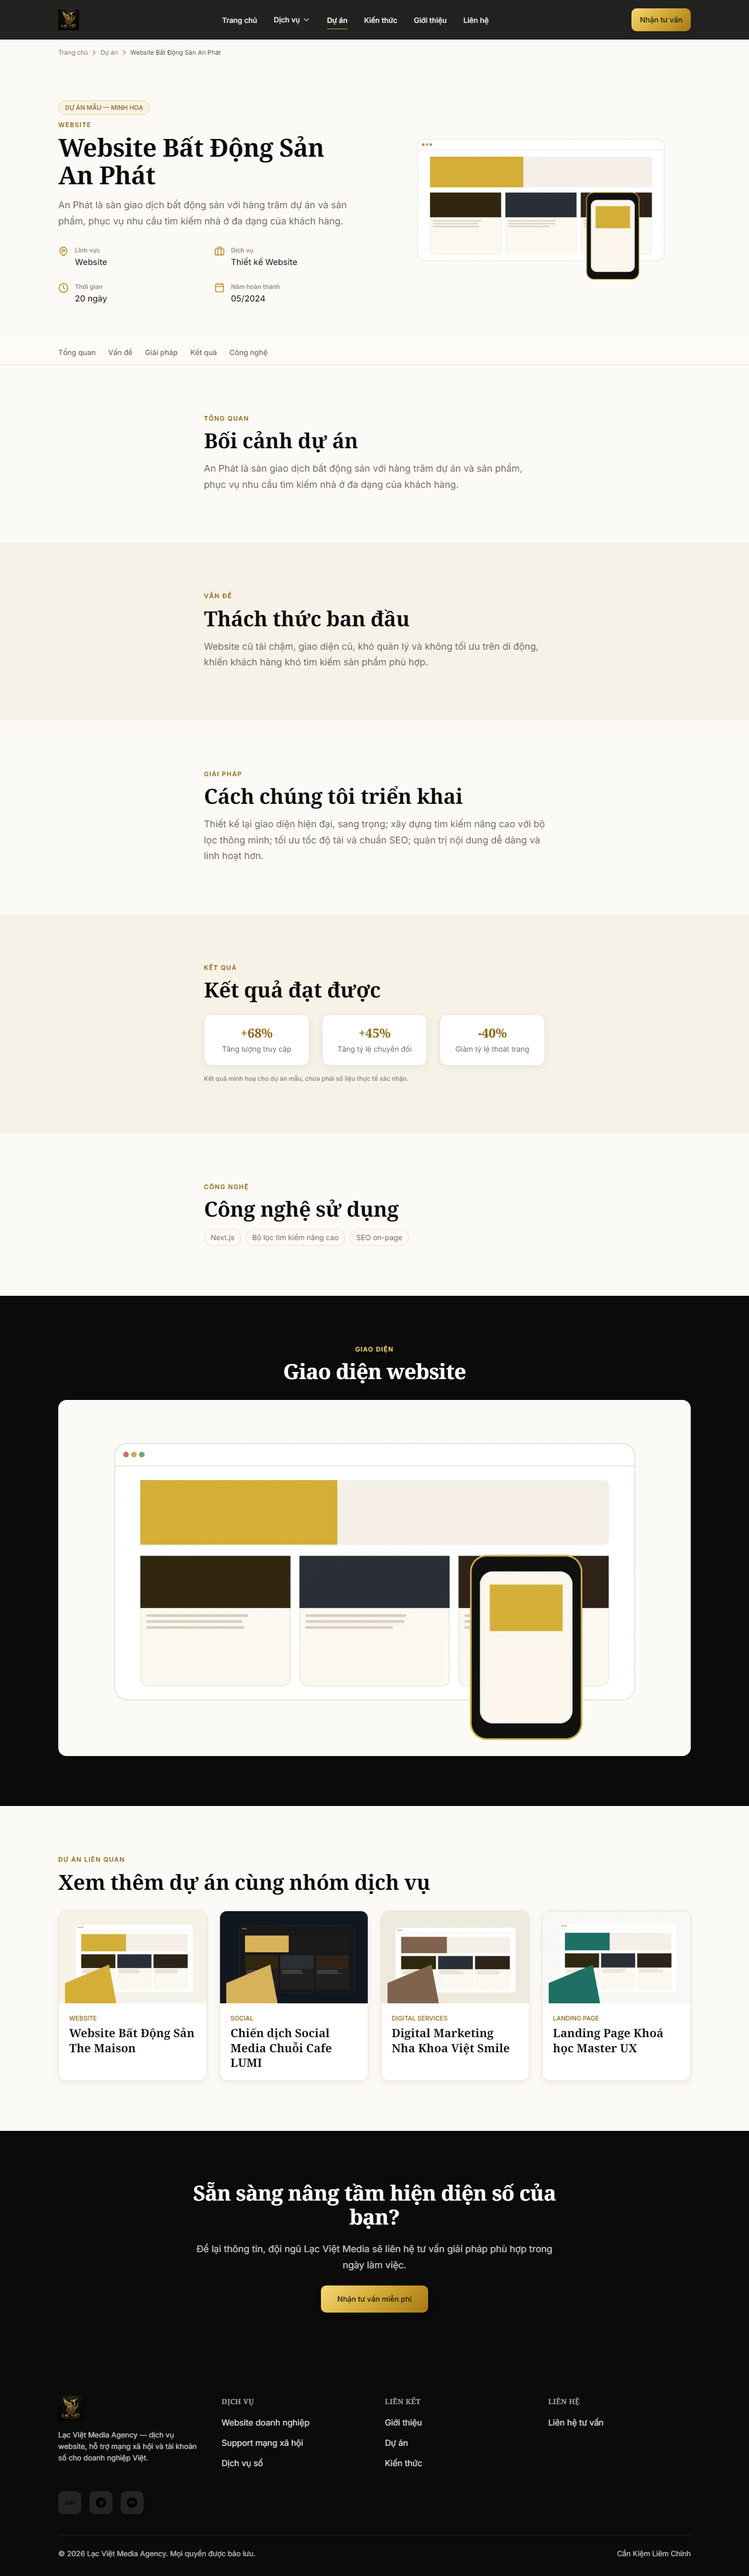
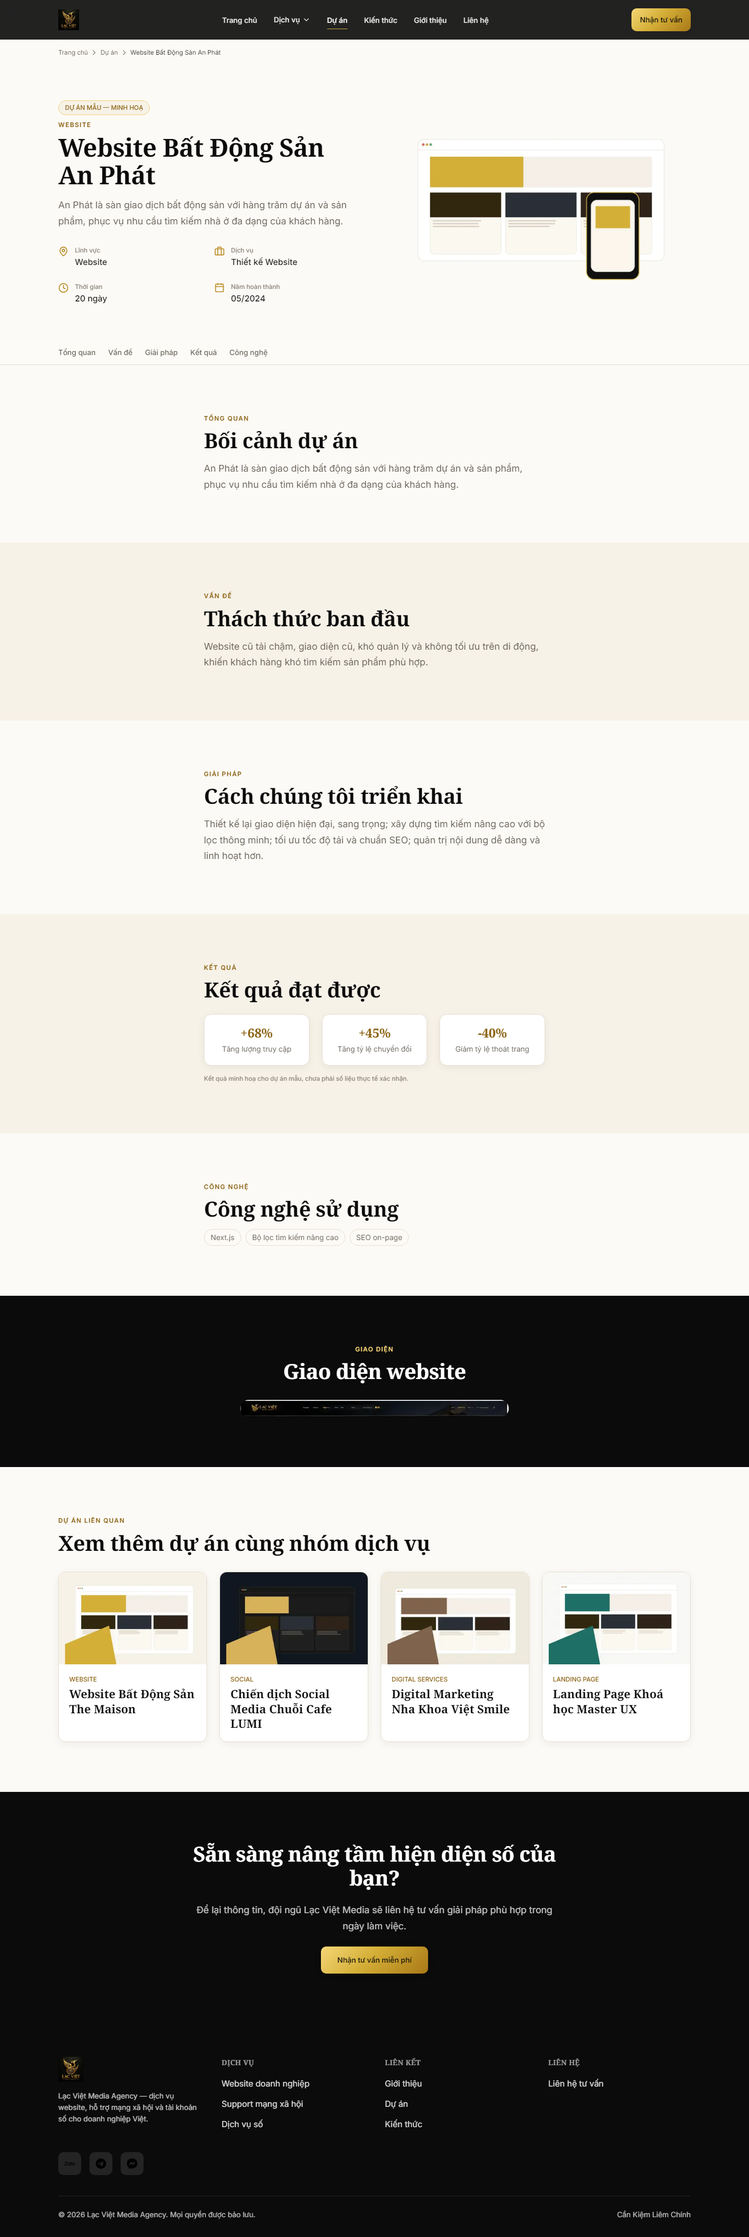
webby(pha2): integrate the three approved-UI raster crops (blocker resolved)
The Drive MCP connector was session-expired, so the three frozen rasters were
initially reported as an external blocker rather than faked. User opened
link-level access; fetched over plain HTTPS instead of the connector, which
for the 29.9MB bundle meant following Google's large-file virus-scan
interstitial (confirm token + uuid). No other Drive file was pulled or browsed.

SHA-256 verified 3/3, twice: against the bytes read from the ZIP before
writing, and again from disk after writing to repoDestination.
  support-cta-device-shield  291d5815...  8214 B  295x120
  digital-cta-phoenix        a4eeb078...  7306 B  205x98
  project-detail-showcase    019b5dc4...  3618 B  516x33

Placements, all at native size with no upscale:
- /support-mxh consultation CTA: device+shield inside the lead-cta card.
- /dich-vu-so final CTA: phoenix above the heading via a new FinalCta
  visualAssetId prop, beside the already-mapped ring motif and noise texture.
- /du-an/[slug] visual-showcase: the approved crop replaces the temporary
  device-master fallback for the demo-project-01 fixture. At 516x33 (~15.6:1)
  the delta forbids upscaling, so the section geometry adapts to the source --
  native width, centred, no invented continuation past the approved cut-off.
  Cross-checked against ui-007.png from the bundle, which shows exactly this
  strip under "GIAO DIEN WEBSITE".

Four new guards assert each crop renders at or below its frozen dimensions
[…]

diff --git a/tests/functional.spec.ts b/tests/functional.spec.ts
@@ -358,7 +358,10 @@ test.describe("detail-route asset identity", () => {
     await page.goto("/du-an/website-bat-dong-san-an-phat");
     const showcase = page.locator("#visual-showcase img");
     await expect(showcase).toHaveCount(1);
-    await expect(showcase).toHaveAttribute("src", /project-detail-device-master/);
+    // PHA2: the temporary device-master fallback is superseded by the authority-mapped
+    // approved crop. The invariant is unchanged — no project-cover may appear on this route.
+    await expect(showcase).toHaveAttribute("src", /project-detail-showcase-approved-crop/);
+    await expect(showcase).not.toHaveAttribute("src", /project-cover/);
     // The related-projects rail legitimately uses covers 01..04 per ASSET_USAGE_MAP; the
     // showcase and hero must not.
     const heroImg = page.locator("#case-study-hero img");
@@ -495,6 +498,40 @@ test.describe("PHA1 decorative asset mapping", () => {
       ),
     );
     expect(hasRing).toBe(false);
+  });
+});
+
+test.describe("PHA1 approved-crop rasters", () => {
+  // SOURCE_LIMITED_APPROVED_CROP: exact pixels from the approved composite. The delta forbids
+  // upscaling beyond native, so each must render at (or below) its frozen dimensions.
+  const CROPS = [
+    { route: "/support-mxh", id: "support-cta-device-shield-approved-crop", w: 295, h: 120 },
+    { route: "/dich-vu-so", id: "digital-cta-phoenix-approved-crop", w: 205, h: 98 },
+    { route: "/du-an/website-bat-dong-san-an-phat", id: "project-detail-showcase-approved-crop", w: 516, h: 33 },
+  ];
+
+  for (const { route, id, w, h } of CROPS) {
+    test(`${id} renders at native size, never upscaled`, async ({ page }) => {
+      await page.setViewportSize({ width: 1440, height: 900 });
+      await page.goto(route);
+      const img = page.locator(`img[src*="${id}"]`).first();
+      await expect(img).toHaveCount(1);
+      const box = await img.boundingBox();
+      expect(box, `${id} not rendered`).not.toBeNull();
+      // Allow a 1px rounding tolerance; anything larger means the crop was stretched.
+      expect(box!.width, `${id} upscaled horizontally`).toBeLessThanOrEqual(w + 1);
+      expect(box!.height, `${id} upscaled vertically`).toBeLessThanOrEqual(h + 1);
+      // Native aspect must be preserved (no squashing into a fake 16:9).
+      expect(box!.width / box!.height).toBeCloseTo(w / h, 1);
+    });
+  }
+
+  test("the showcase strip is not stretched into a fake 16:9 block", async ({ page }) => {
+    await page.goto("/du-an/website-bat-dong-san-an-phat");
+    const img = page.locator('#visual-showcase img').first();
+    const box = await img.boundingBox();
+    // 516/33 ≈ 15.6:1. A 16:9 fake would be ≈1.78.
+    expect(box!.width / box!.height).toBeGreaterThan(10);
   });
 });
 

diff --git a/src/app/(site)/du-an/[slug]/page.tsx b/src/app/(site)/du-an/[slug]/page.tsx
@@ -61,8 +61,12 @@ export default async function ProjectDetailPage({ params }: { params: Promise<{ 
   // A project's own identity-bound cover is legitimate here; a detail-only fixture supplies its
   // own mapped DETAIL_VISUAL instead of borrowing one (GD10 re-QA round 4, R4-01). The device
   // master is presented `contain` per asset-manifest.json presentationByUsage, not `cover`.
-  const showcaseAssetId = project.detailVisualAssetId ?? project.heroAssetId;
-  const showcaseFit = showcaseAssetId === "project-detail-device-master" ? "object-contain" : "object-cover";
+  // ASSET_USAGE_MAP "/du-an/[slug]".visualShowcase = project-detail-showcase-approved-crop, an
+  // identity-bound crop for item demo-project-01. Visible projects keep their own cover.
+  const showcaseAssetId = project.hidden
+    ? "project-detail-showcase-approved-crop"
+    : (project.detailVisualAssetId ?? project.heroAssetId);
+  const showcaseIsApprovedCrop = showcaseAssetId === "project-detail-showcase-approved-crop";
 
   return (
     <>
@@ -228,9 +232,21 @@ export default async function ProjectDetailPage({ params }: { params: Promise<{ 
       <Section id="visual-showcase" tone="dark">
         <Container>
           <SectionHeading onDark eyebrow="Giao diện" title="Giao diện website" align="center" />
-          <div className="relative mt-8 aspect-[16/9] w-full overflow-hidden rounded-lg">
+          {/* project-detail-showcase-approved-crop is SOURCE_LIMITED_APPROVED_CROP at 516x33:
+              the approved master only ever exposes the top strip of this screenshot, cut off by
+              the mockup frame. The delta forbids upscaling or stretching it into a fake 16:9, so
+              the section geometry adapts to the source instead — rendered at its native width,
+              centred, with no invented continuation below. */}
+          <div className="mx-auto mt-8 w-full max-w-[516px] overflow-hidden rounded-lg">
             {showcaseAssetId ? (
-              <Image src={assetPath(showcaseAssetId)} alt={`Minh hoạ giao diện ${project.title}`} fill className={showcaseFit} />
+              <Image
+                src={assetPath(showcaseAssetId)}
+                alt={`Minh hoạ giao diện ${project.title}`}
+                width={showcaseIsApprovedCrop ? 516 : 1280}
+                height={showcaseIsApprovedCrop ? 33 : 720}
+                className="h-auto w-full"
+                sizes="516px"
+              />
             ) : null}
           </div>
         </Container>

diff --git a/src/app/(site)/support-mxh/SupportInteractive.tsx b/src/app/(site)/support-mxh/SupportInteractive.tsx
@@ -1,6 +1,9 @@
 "use client";
 
+import Image from "next/image";
+
 import { Button } from "@/components/ui/Button";
+import { assetPath } from "@/lib/assets";
 import { useConsultation } from "@/components/conversion/ConsultationProvider";
 
 export function SupportHeroCta() {
@@ -15,11 +18,21 @@ export function SupportHeroCta() {
 export function SupportLeadCta() {
   const { open } = useConsultation();
   return (
-    <div className="flex flex-col items-center gap-4 rounded-lg border border-gold-300/60 bg-ivory-100 p-8 text-center md:flex-row md:justify-between md:text-left">
+    <div className="flex flex-col items-center gap-6 rounded-lg border border-gold-300/60 bg-ivory-100 p-8 text-center md:flex-row md:justify-between md:text-left">
       <div>
-        <h3 className="text-h4-mobile text-ink-950">Đang gặp sự cố cần xử lý gấp?</h3>
+        <h3 className="text-card-h3-mobile lg:text-card-h3-desktop text-ink-950">Đang gặp sự cố cần xử lý gấp?</h3>
         <p className="mt-1 text-body text-text-secondary">Để lại thông tin, đội ngũ hỗ trợ sẽ liên hệ trong ngày làm việc.</p>
       </div>
+      {/* ASSET_USAGE_MAP "/support-mxh".consultationCtaVisual — approved-UI crop rendered at its
+          native 295x120; SOURCE_LIMITED_APPROVED_CROP must never be upscaled. */}
+      <Image
+        src={assetPath("support-cta-device-shield-approved-crop")}
+        alt=""
+        aria-hidden="true"
+        width={295}
+        height={120}
+        className="h-auto w-full max-w-[295px] shrink-0"
+      />
       <Button onClick={() => open("support-lead-cta", "Support mạng xã hội")}>Yêu cầu hỗ trợ ngay</Button>
     </div>
   );

diff --git a/src/components/layout/FinalCta.tsx b/src/components/layout/FinalCta.tsx
@@ -1,5 +1,6 @@
 "use client";
 
+import Image from "next/image";
 import { Container } from "@/components/ui/Container";
 import { Button } from "@/components/ui/Button";
 import { useConsultation } from "@/components/conversion/ConsultationProvider";
@@ -11,6 +12,7 @@ export function FinalCta({
   sourceComponent,
   defaultService,
   decorated = false,
+  visualAssetId,
 }: {
   title?: string;
   description?: string;
@@ -19,6 +21,9 @@ export function FinalCta({
   /** Enables the approved `dong-son-ring` motif + `gold-noise` texture. ASSET_USAGE_MAP maps
    * these to /dich-vu-so final-cta only — deliberately not applied to every FinalCta. */
   decorated?: boolean;
+  /** Approved-UI CTA crop (e.g. /dich-vu-so finalCtaVisual). Rendered at native size only —
+   * these are SOURCE_LIMITED_APPROVED_CROP and must not be upscaled. */
+  visualAssetId?: string;
 }) {
   const { open } = useConsultation();
   return (
@@ -38,6 +43,16 @@ export function FinalCta({
         </>
       ) : null}
       <Container className={`flex flex-col items-center gap-6 text-center ${decorated ? "relative" : ""}`}>
+        {visualAssetId ? (
+          <Image
+            src={assetPath(visualAssetId)}
+            alt=""
+            aria-hidden="true"
+            width={205}
+            height={98}
+            className="h-auto w-full max-w-[205px]"
+          />
+        ) : null}
         <h2 className="max-w-editorial text-h2-mobile lg:text-h2-desktop text-white">{title}</h2>
         <p className="max-w-editorial text-body-lg text-white/75">{description}</p>
         <Button size="lg" onClick={() => open(sourceComponent, defaultService)}>

diff --git a/src/lib/assets.ts b/src/lib/assets.ts
@@ -36,6 +36,13 @@ const ASSET_PATHS: Record<string, string> = {
   "lac-viet-logo-canonical": "/assets/brand/lac-viet-logo.webp",
   "support-client-logo-strip": "/assets/client-logos/support-client-logo-strip.png",
 
+  // PHA1 delta — the three approved-UI raster crops. SOURCE_LIMITED_APPROVED_CROP: exact pixels
+  // from the approved composite, sha256-verified on download and again on disk. They must be
+  // rendered at native size (contain, no upscale) — see ASSET_MANIFEST_DELTA_91.responsive.
+  "support-cta-device-shield-approved-crop": "/assets/cta/support-cta-device-shield-approved-crop.webp",
+  "digital-cta-phoenix-approved-crop": "/assets/cta/digital-cta-phoenix-approved-crop.webp",
+  "project-detail-showcase-approved-crop": "/assets/detail/project-detail-showcase-approved-crop.webp",
+
   // PHA1 delta — the three source-controlled decorative vectors, now counted and mapped
   // (ASSET_MANIFEST_DELTA_91.json). Purely decorative: never identity-bound content.
   "dong-son-ring": "/assets/decorative/dong-son-ring.svg",

diff --git a/src/app/(site)/dich-vu-so/page.tsx b/src/app/(site)/dich-vu-so/page.tsx
@@ -180,7 +180,9 @@ export default function DigitalServicesPage() {
       </Section>
 
       <FinalCta
-        decorated sourceComponent="digital-final-cta" defaultService="Dịch vụ số / tài khoản" />
+        decorated
+        visualAssetId="digital-cta-phoenix-approved-crop"
+        sourceComponent="digital-final-cta" defaultService="Dịch vụ số / tài khoản" />
     </>
   );
 }
